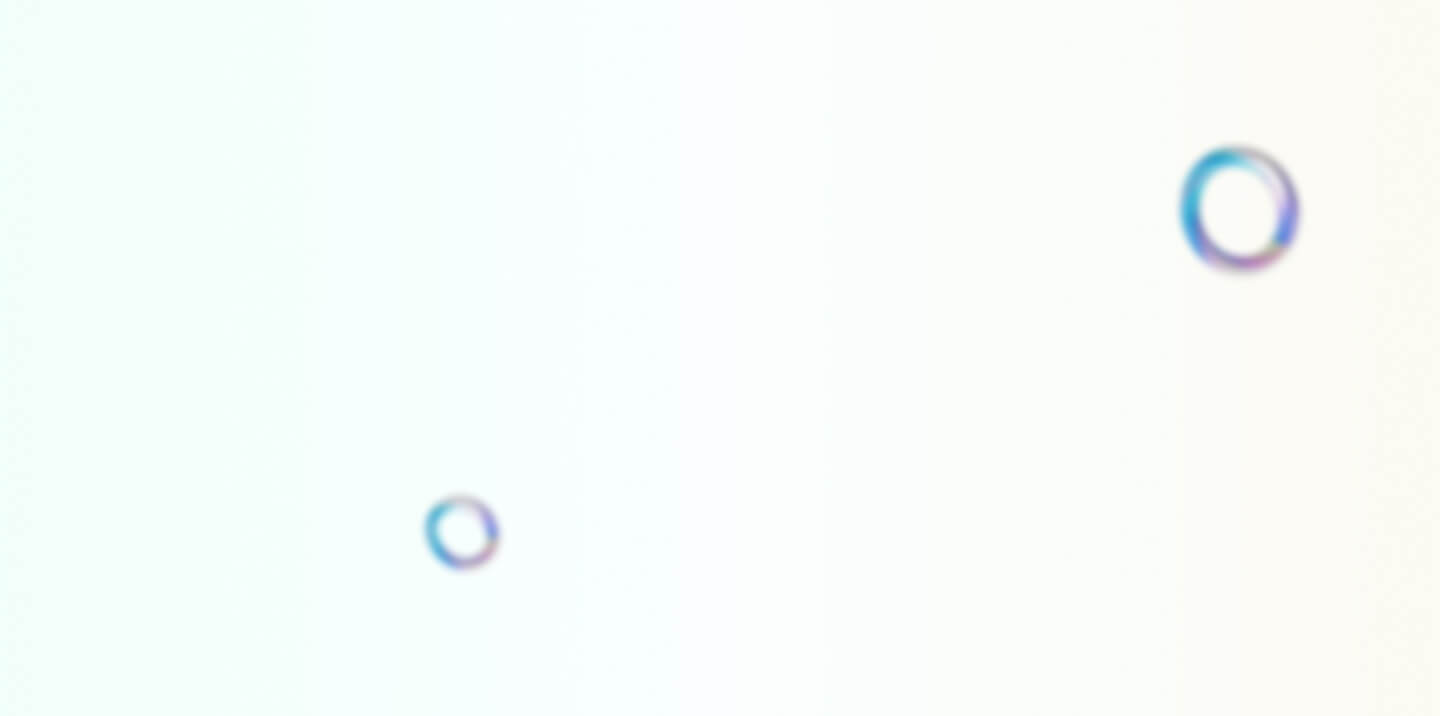
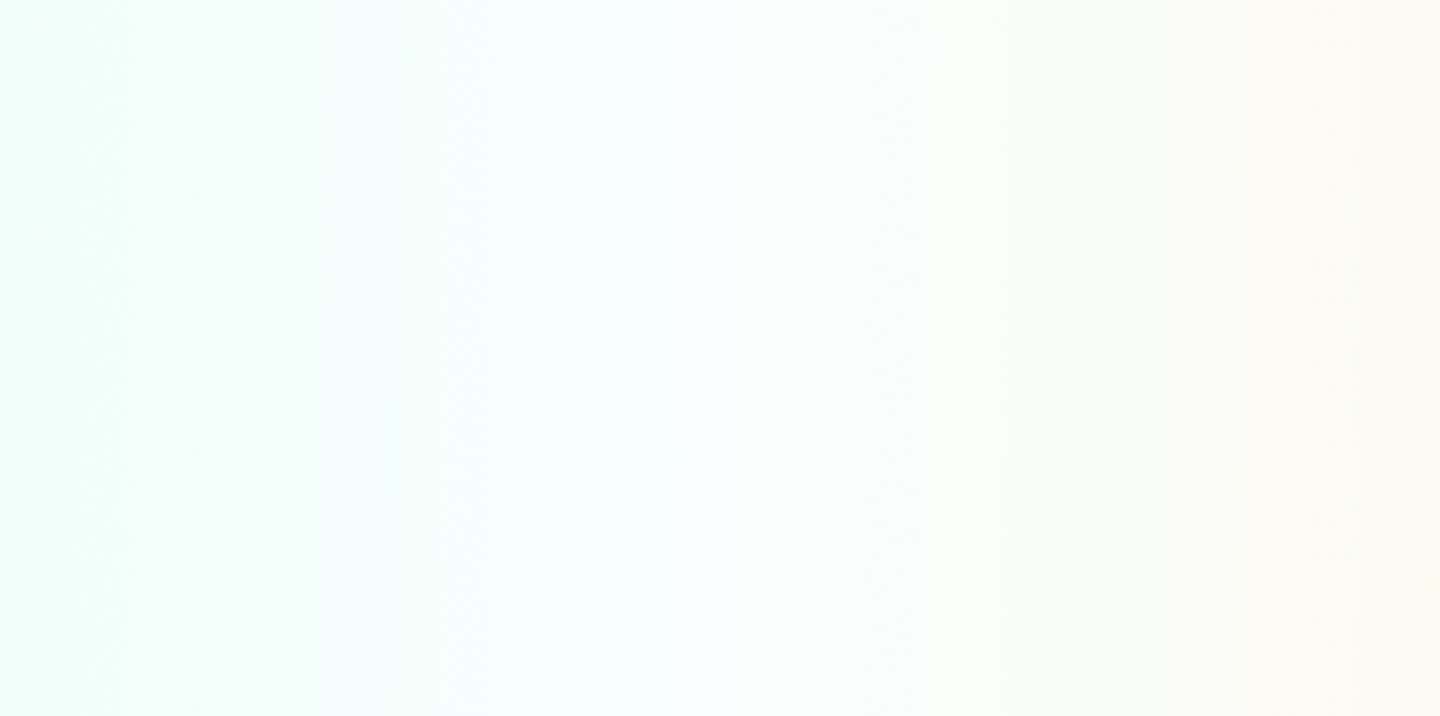
I don't like some parts so I changed some parts

Changed region(s): [[0.8125, 0.1844, 0.9062, 0.3994], [0.2812, 0.676, 0.375, 0.7989]]

diff --git a/css/styles.css b/css/styles.css
@@ -217,6 +217,8 @@ img {
 .intro-heading-communication-link {
     padding: 12px 32px;
     border-radius: 12px;
+    border: 0;
+    cursor: pointer;
     background-color: var(--button-bg-color);
 
 }
@@ -235,19 +237,46 @@ img {
 
 
 .intro-heading-about-video {
+    width: 250px;
+    height: 250px;
     position: absolute;
     top: 220px;
     left: 755px;
-    width: 206px;
-    height: 231px;
-    display: inline-flex;
-    transform: rotate(-15deg);
-    flex-direction: column;
+
+
+    border: 0;
+    background-color: transparent;
 
 
 
 
 }
+.intro-video-link-container {
+    display: flex;
+    flex-direction: column;
+    width: 235px;
+    height: 235px;
+    border-radius: 50%;
+
+
+}
+
+.intro-video-link-container span {
+    text-align: center;
+}
+
+
+.intro-heading-about-video span {
+    color: var(--gray-darker);
+    text-align: center;
+    font-size: 16px;
+    font-weight: 400;
+    line-height: 140%;
+}
+
+
+
+
 
 .site-intro__left-img {
     position: absolute;
@@ -263,34 +292,19 @@ img {
 
 
 
-.intro-video-link-container {
-    background-image: url("../img/about-us-video-bg.png");
-    background-repeat: no-repeat;
-    background-size: cover;
-    background-position: center;
-    width: 192px;
-    height: 192px;
-    border-radius: 50%;
-    border: 1px dashed #368A8C;
-    margin-bottom: 8px;
 
-}
 
-.intro-heading-about-video span {
-    color: var(--gray-darker);
-    text-align: center;
-    font-size: 12px;
-    font-weight: 400;
-    line-height: 140%;
-}
 
 
 
    /*INTRO ABOUT TEAM*/
 
 .intro-about-team-wrapper {
-   position: absolute;
+    margin: 0 auto;
+    position: absolute;
     top: 575px;
+    left: 30px;
+
 }
 
 .intro-about-team-list {

diff --git a/index.html b/index.html
@@ -55,13 +55,15 @@
                 <h1 >Biznes yoki o'z loyihangizga </h1>
                 <h1><span>zamonaviy yechimlar</span> taqdim qiling.</h1>
                 <p>Veb saytlar, Telegram botlar, CRM tizimlar bularning barchasi biz bilan oson.</p>
-                <a class="intro-heading-communication-link" href="#" >
+                <button class="intro-heading-communication-link" type="button" >
                     <span>BEPUL onlayn suhbat</span>
-                </a>
-                <a href="#" class="intro-heading-about-video" type="button"  >
-                    <span class="intro-video-link-container"></span>
-                    <span>Biz haqimizda video</span>
-                </a>
+                </button>
+                <button  class="intro-heading-about-video" type="button"  >
+                    <span class="intro-video-link-container">
+                        <img src="img/about-us-video-bg.png" alt="" srcset="img/about-us-video-bg.png 1x, img/about-us-video-bg@2x.png 2x">
+                    </span>
+                    <span class="intro-video-text">Biz haqimizda video</span>
+                </button>
                 <img class="site-intro__left-img"  src="img/intro-outer-left.png" alt="" srcset="img/intro-outer-left.png 1x , img/intro-outer-left@2x.png 2x">
                 <img class="site-intro__right-img"  src="img/intro-outer-right.png" alt="" srcset="img/intro-outer-right.png 1x , img/intro-outer-left@2x.png 2x">
             </div>
